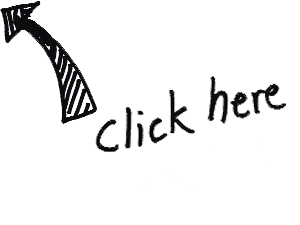
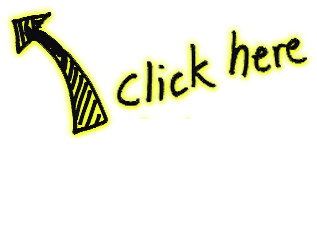
more images

Changed region(s): [[0.0, 0.0, 0.99, 0.6844]]

diff --git a/client/src/pages/Dashboard/Dashboard.jsx b/client/src/pages/Dashboard/Dashboard.jsx
@@ -515,6 +515,8 @@ class Dashboard extends Component {
           <div className="table">
             <img alt="table" src="./images/table3.png" />
             <img className="stein" alt="stein" src="./images/stein.png" />
+            <img className={this.state.burnedCards.length ? "hide" : "click-to-start"} onClick={() => this.drawCard()} alt="click to start" src="./images/click_here3.png" />
+            <img className={this.state.burnedCards.length === 1 ? "click-to-continue" : "hide"} onClick={() => this.drawCard()} alt="click to continue" src="./images/click_here2.png" />
           </div>
           
           <div className="HUD">

diff --git a/client/src/pages/Dashboard/Dashboard.css b/client/src/pages/Dashboard/Dashboard.css
@@ -226,15 +226,19 @@ html {
   /* transform: skew(-30deg); */
 }
 .table > img.stein {
-  grid-column: 1/3;
-  grid-row: 1/2;
-  position: relative;
   top: 14%;
   left: 8%;
   z-index: 600;
   height: 18%;
   width: initial;
   transform: skew(0deg);
+}
+.table > img.click-to-start, img.click-to-continue {
+  top: 20%;
+  left: 58%;
+  height: 18%;
+  width: initial;
+  z-index: 101;
 }
 .decks {
   grid-column: 1/5;
